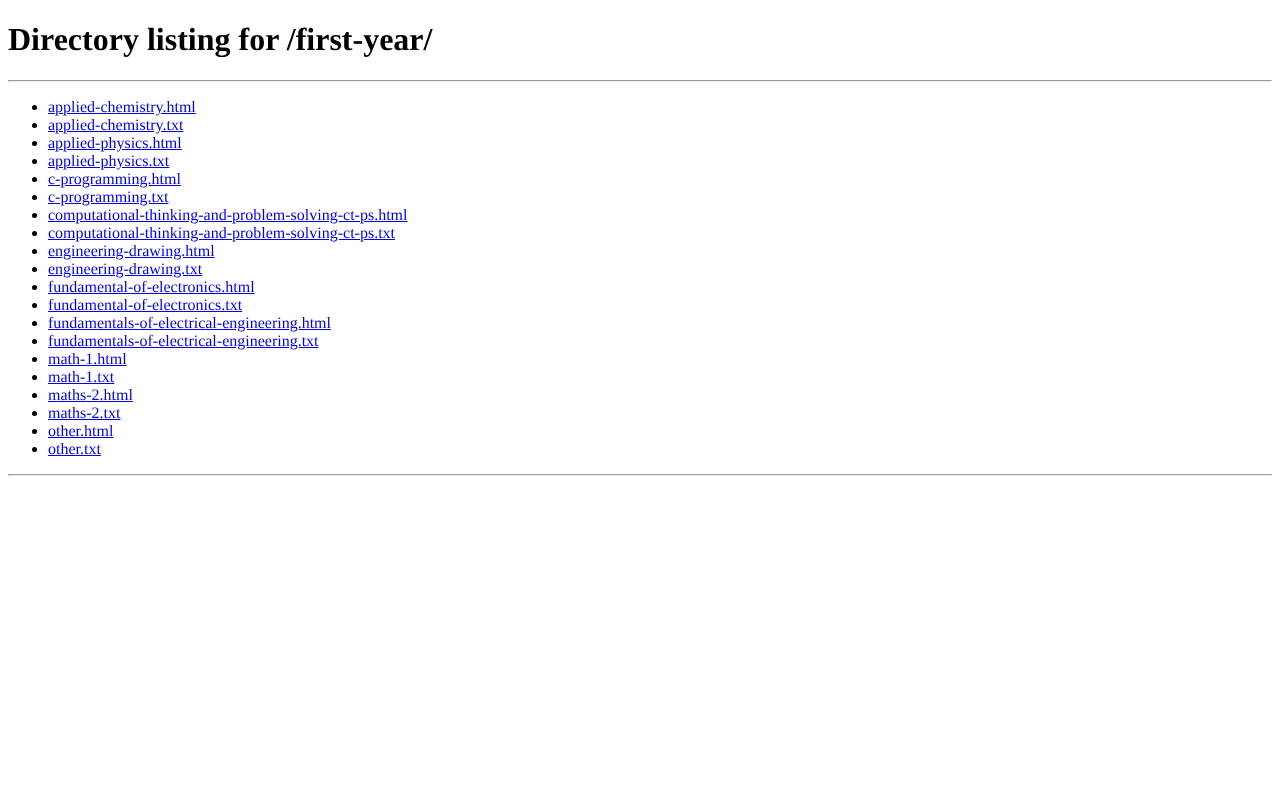
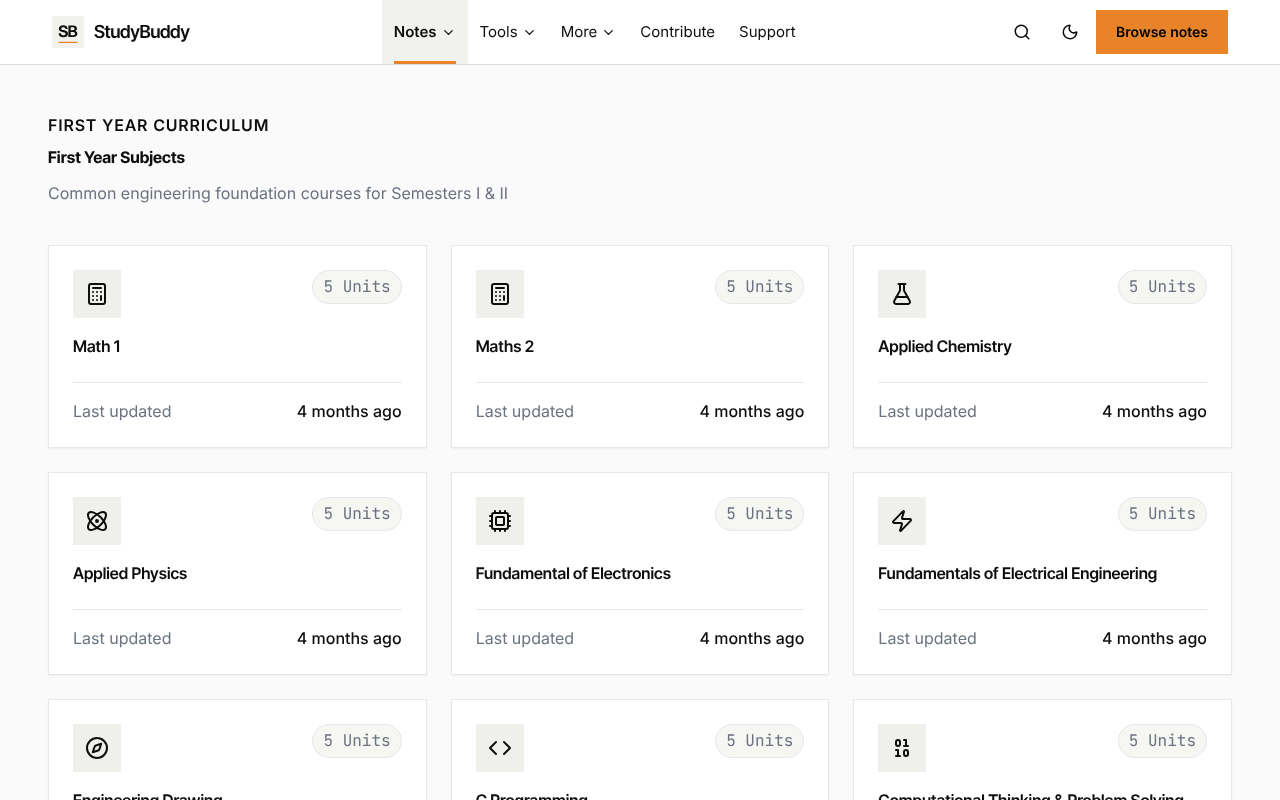
License: all rights reserved (source available); README fixes, new first-year screenshot, maintainer link; remove open-source claims from site

diff --git a/app/about/page.tsx b/app/about/page.tsx
@@ -28,13 +28,13 @@ export default function AboutPage() {
             </p>
 
             <h2 className="font-sora font-semibold text-headline-sm text-on-surface dark:text-text-primary-dark mt-8 mb-4">
-              Open Source Initiative
+              Community Contributions
             </h2>
             <p>
-              To ensure the content remains accurate, up-to-date, and comprehensive, Study Buddy KKW is now an open-source project. Any student can contribute by adding unit-wise notes, updating syllabus details, or correcting links.
+              To ensure the content remains accurate, up-to-date, and comprehensive, Study Buddy KKW accepts contributions from students. Any student can contribute by adding unit-wise notes, updating syllabus details, or correcting links.
             </p>
             <p>
-              This collaborative model helps the portal grow while giving student contributors real-world experience working with GitHub and open-source workflows.
+              This collaborative model helps the portal grow while giving student contributors real-world experience working with GitHub and collaborative workflows.
             </p>
           </div>
         </div>

diff --git a/app/contact/page.tsx b/app/contact/page.tsx
@@ -116,7 +116,7 @@ export default function ContactPage() {
             <div className="grid md:grid-cols-[260px_1fr] gap-2 md:gap-10 py-7 border-b border-[var(--lp-line)]">
               <h3 className="font-tight font-semibold text-lg">Bugs and feature requests</h3>
               <div>
-                <p className="text-[var(--lp-muted)] leading-relaxed">StudyBuddy is open source. Report a problem or request a missing subject on GitHub.</p>
+                <p className="text-[var(--lp-muted)] leading-relaxed">The source is public on GitHub. Report a problem or request a missing subject on GitHub.</p>
                 <a
                   href="https://github.com/Sanket-103-pvt/StudyBuddy-KKW/issues"
                   target="_blank"

diff --git a/components/landing/LandingPage.tsx b/components/landing/LandingPage.tsx
@@ -313,7 +313,7 @@ export default function LandingPage() {
           ))}
         </div>
         <div className={`${wrap} py-6 border-t border-white/10 text-xs text-white/50`}>
-          © {new Date().getFullYear()} Study Buddy KKW. Open source under the MIT License. Not an official page of KKWIEER. Built by{" "}
+          © {new Date().getFullYear()} Study Buddy KKW. All rights reserved. Not an official page of KKWIEER. Built by{" "}
           <a href="https://sanketchaudhari.in" target="_blank" rel="noopener noreferrer" className="text-white/80 underline underline-offset-4 hover:text-white">
             Sanket Chaudhari (sanketchaudhari.in)
           </a>

diff --git a/components/SiteNav.tsx b/components/SiteNav.tsx
@@ -38,7 +38,7 @@ const MENUS: { label: string; items: Item[] }[] = [
     items: [
       { title: "About", text: "Why Study Buddy exists and who runs it.", href: "/about" },
       { title: "Contact", text: "Write to us or report a problem.", href: "/contact" },
-      { title: "GitHub", text: "The project is open source.", href: "https://github.com/Sanket-103-pvt/StudyBuddy-KKW", external: true },
+      { title: "GitHub", text: "View the source and contribute on GitHub.", href: "https://github.com/Sanket-103-pvt/StudyBuddy-KKW", external: true },
     ],
   },
 ];

diff --git a/components/Footer.tsx b/components/Footer.tsx
@@ -15,7 +15,7 @@ export default function Footer() {
             One hub for every note, PYQ, and resource K.K. Wagh engineering students actually need. Built for students, by students.
           </p>
           <p className="font-inter text-body-sm text-text-secondary-light dark:text-text-secondary-dark">
-            © {new Date().getFullYear()} Study Buddy KKW. Open Source Project under MIT License.
+            © {new Date().getFullYear()} Study Buddy KKW. All rights reserved.
           </p>
           <VisitCount />
         </div>

diff --git a/README.md b/README.md
@@ -4,7 +4,7 @@
 
 # StudyBuddy KKW
 
-**Free, open-source study hub for K.K. Wagh Institute of Engineering Education & Research (KKWIEER) students.**
+**Free study hub for K.K. Wagh Institute of Engineering Education & Research (KKWIEER) students.**
 
 Subject-wise notes, a grade-card accurate SGPA/CGPA calculator, instant search and a student contributor system, all in one place.
 
@@ -13,7 +13,7 @@ Subject-wise notes, a grade-card accurate SGPA/CGPA calculator, instant search a
 <br />
 
 [![CI](https://github.com/Sanket-103-pvt/StudyBuddy-KKW/actions/workflows/e2e.yml/badge.svg?branch=master)](https://github.com/Sanket-103-pvt/StudyBuddy-KKW/actions/workflows/e2e.yml)
-[![License: MIT](https://img.shields.io/badge/License-MIT-green.svg)](LICENSE)
+[![License: All Rights Reserved](https://img.shields.io/badge/License-All_Rights_Reserved-b91c1c.svg)](LICENSE)
 [![PRs welcome](https://img.shields.io/badge/PRs-welcome-e8832a.svg)](CONTRIBUTING.md)
 ![Next.js](https://img.shields.io/badge/Next.js-14-000000?logo=next.js&logoColor=white)
 ![TypeScript](https://img.shields.io/badge/TypeScript-5-3178C6?logo=typescript&logoColor=white)
@@ -88,54 +88,6 @@ Notes get lost in WhatsApp groups, Drive links die, and nobody remembers how the
 | Monitoring | Cloudflare Web Analytics, optional Sentry for browser errors |
 | Tests | Jest (unit), Cypress (end to end, runs in CI) |
 
-## Getting started
-
-You need Node.js 18+ and npm.
-
-```bash
-git clone https://github.com/Sanket-103-pvt/StudyBuddy-KKW.git
-cd StudyBuddy-KKW
-npm install
-npm run dev
-```
-
-Open http://localhost:3000. Browsing, search and the calculator work without any setup.
-
-Login, contributions, the admin page and the leaderboard switch on when Supabase is configured. See [`supabase/README.md`](supabase/README.md).
-
-| Command | What it does |
-|---|---|
-| `npm run dev` | Start the development server |
-| `npm run validate` | Check every file in `content/` against the schema |
-| `npm test` | Run the Jest unit tests |
-| `npm run lint` | Run ESLint |
-| `npm run build` | Validate content, then build for production |
-
-### Environment variables
-
-Copy nothing into the repo. Put these in `.env.local` (local) or in your host's build settings. All are optional.
-
-| Variable | Purpose |
-|---|---|
-| `NEXT_PUBLIC_SUPABASE_URL` | Supabase project URL (turns on login and contributions) |
-| `NEXT_PUBLIC_SUPABASE_ANON_KEY` | Supabase anon public key (never use the `service_role` key) |
-| `NEXT_PUBLIC_SENTRY_DSN` | Browser error reports (off when empty) |
-| `NEXT_PUBLIC_ADSENSE_CLIENT` | Google AdSense publisher id, for example `ca-pub-123...` (ads stay off when empty) |
-| `NEXT_PUBLIC_ADSENSE_SLOT_SUBJECT` | Ad unit id for subject pages |
-
-## Deploying
-
-The site has no server code, so it builds to plain files and runs on any static host. On Cloudflare:
-
-```bash
-# build command
-STATIC_EXPORT=1 npm run build
-# output directory
-out
-```
-
-`wrangler.jsonc` points Cloudflare at `out/`, and `public/_headers` and `public/_redirects` carry the security headers and redirects. The daily Supabase keepalive runs from `.github/workflows/keepalive.yml` (add the two Supabase repository secrets).
-
 ## Project structure
 
 ```
@@ -155,9 +107,9 @@ cypress/        End-to-end tests
 There are two ways to help:
 
 - **Share notes (students).** Sign in on the site, open **Contribute**, and submit a link. An admin reviews it before it goes live.
-- **Improve the code or content (developers).** Read [CONTRIBUTING.md](CONTRIBUTING.md), then open a pull request. Adding notes only needs a JSON edit in `content/`.
+- **Improve the code or content (developers).** Read [CONTRIBUTING.md](CONTRIBUTING.md), then open a pull request. Adding notes only needs a JSON edit in `content/`. Contributions are accepted under the terms in [LICENSE](LICENSE).
 
-Please follow the [Code of Conduct](CODE_OF_CONDUCT.md).
+Local setup steps for contributors are in [CONTRIBUTING.md](CONTRIBUTING.md). Please follow the [Code of Conduct](CODE_OF_CONDUCT.md).
 
 ## Roadmap
 
@@ -168,9 +120,11 @@ Please follow the [Code of Conduct](CODE_OF_CONDUCT.md).
 
 ## License and credits
 
-The code is released under the [MIT License](LICENSE). The StudyBuddy name and logo identify the official site, so please do not present a fork as the official StudyBuddy KKW.
+The source is public so you can read it, learn from it and send improvements. **It is not open source: all rights are reserved.** Copying the code, the content, the design or the branding, or running a copy or a close clone of this project, is not allowed without written permission. See [LICENSE](LICENSE) for exactly what you may and may not do. To ask for permission, write to Studybuddykkw@gmail.com.
 
-Created and maintained by [Sanket Chaudhari](https://github.com/Sanket-103-pvt). Thanks to every student who shares notes and reports broken links.
+Notes shared by students belong to their authors and are only linked from the site.
+
+Created and maintained by [Sanket Chaudhari](https://github.com/sanket1035). Thanks to every student who shares notes and reports broken links.
 
 <div align="center">
 

diff --git a/CONTRIBUTING.md b/CONTRIBUTING.md
@@ -2,7 +2,7 @@
 
 Thank you for helping make **StudyBuddy KKW** better for K.K. Wagh students. This guide covers two kinds of help: sharing notes (no coding needed) and improving the code or content (pull requests).
 
-By taking part you agree to follow the [Code of Conduct](CODE_OF_CONDUCT.md).
+By taking part you agree to follow the [Code of Conduct](CODE_OF_CONDUCT.md). The repository is source-available, not open source: read the [LICENSE](LICENSE) first. Contributions you submit are accepted under section 4 of that license, and the code may not be copied or hosted elsewhere.
 
 ---
 
